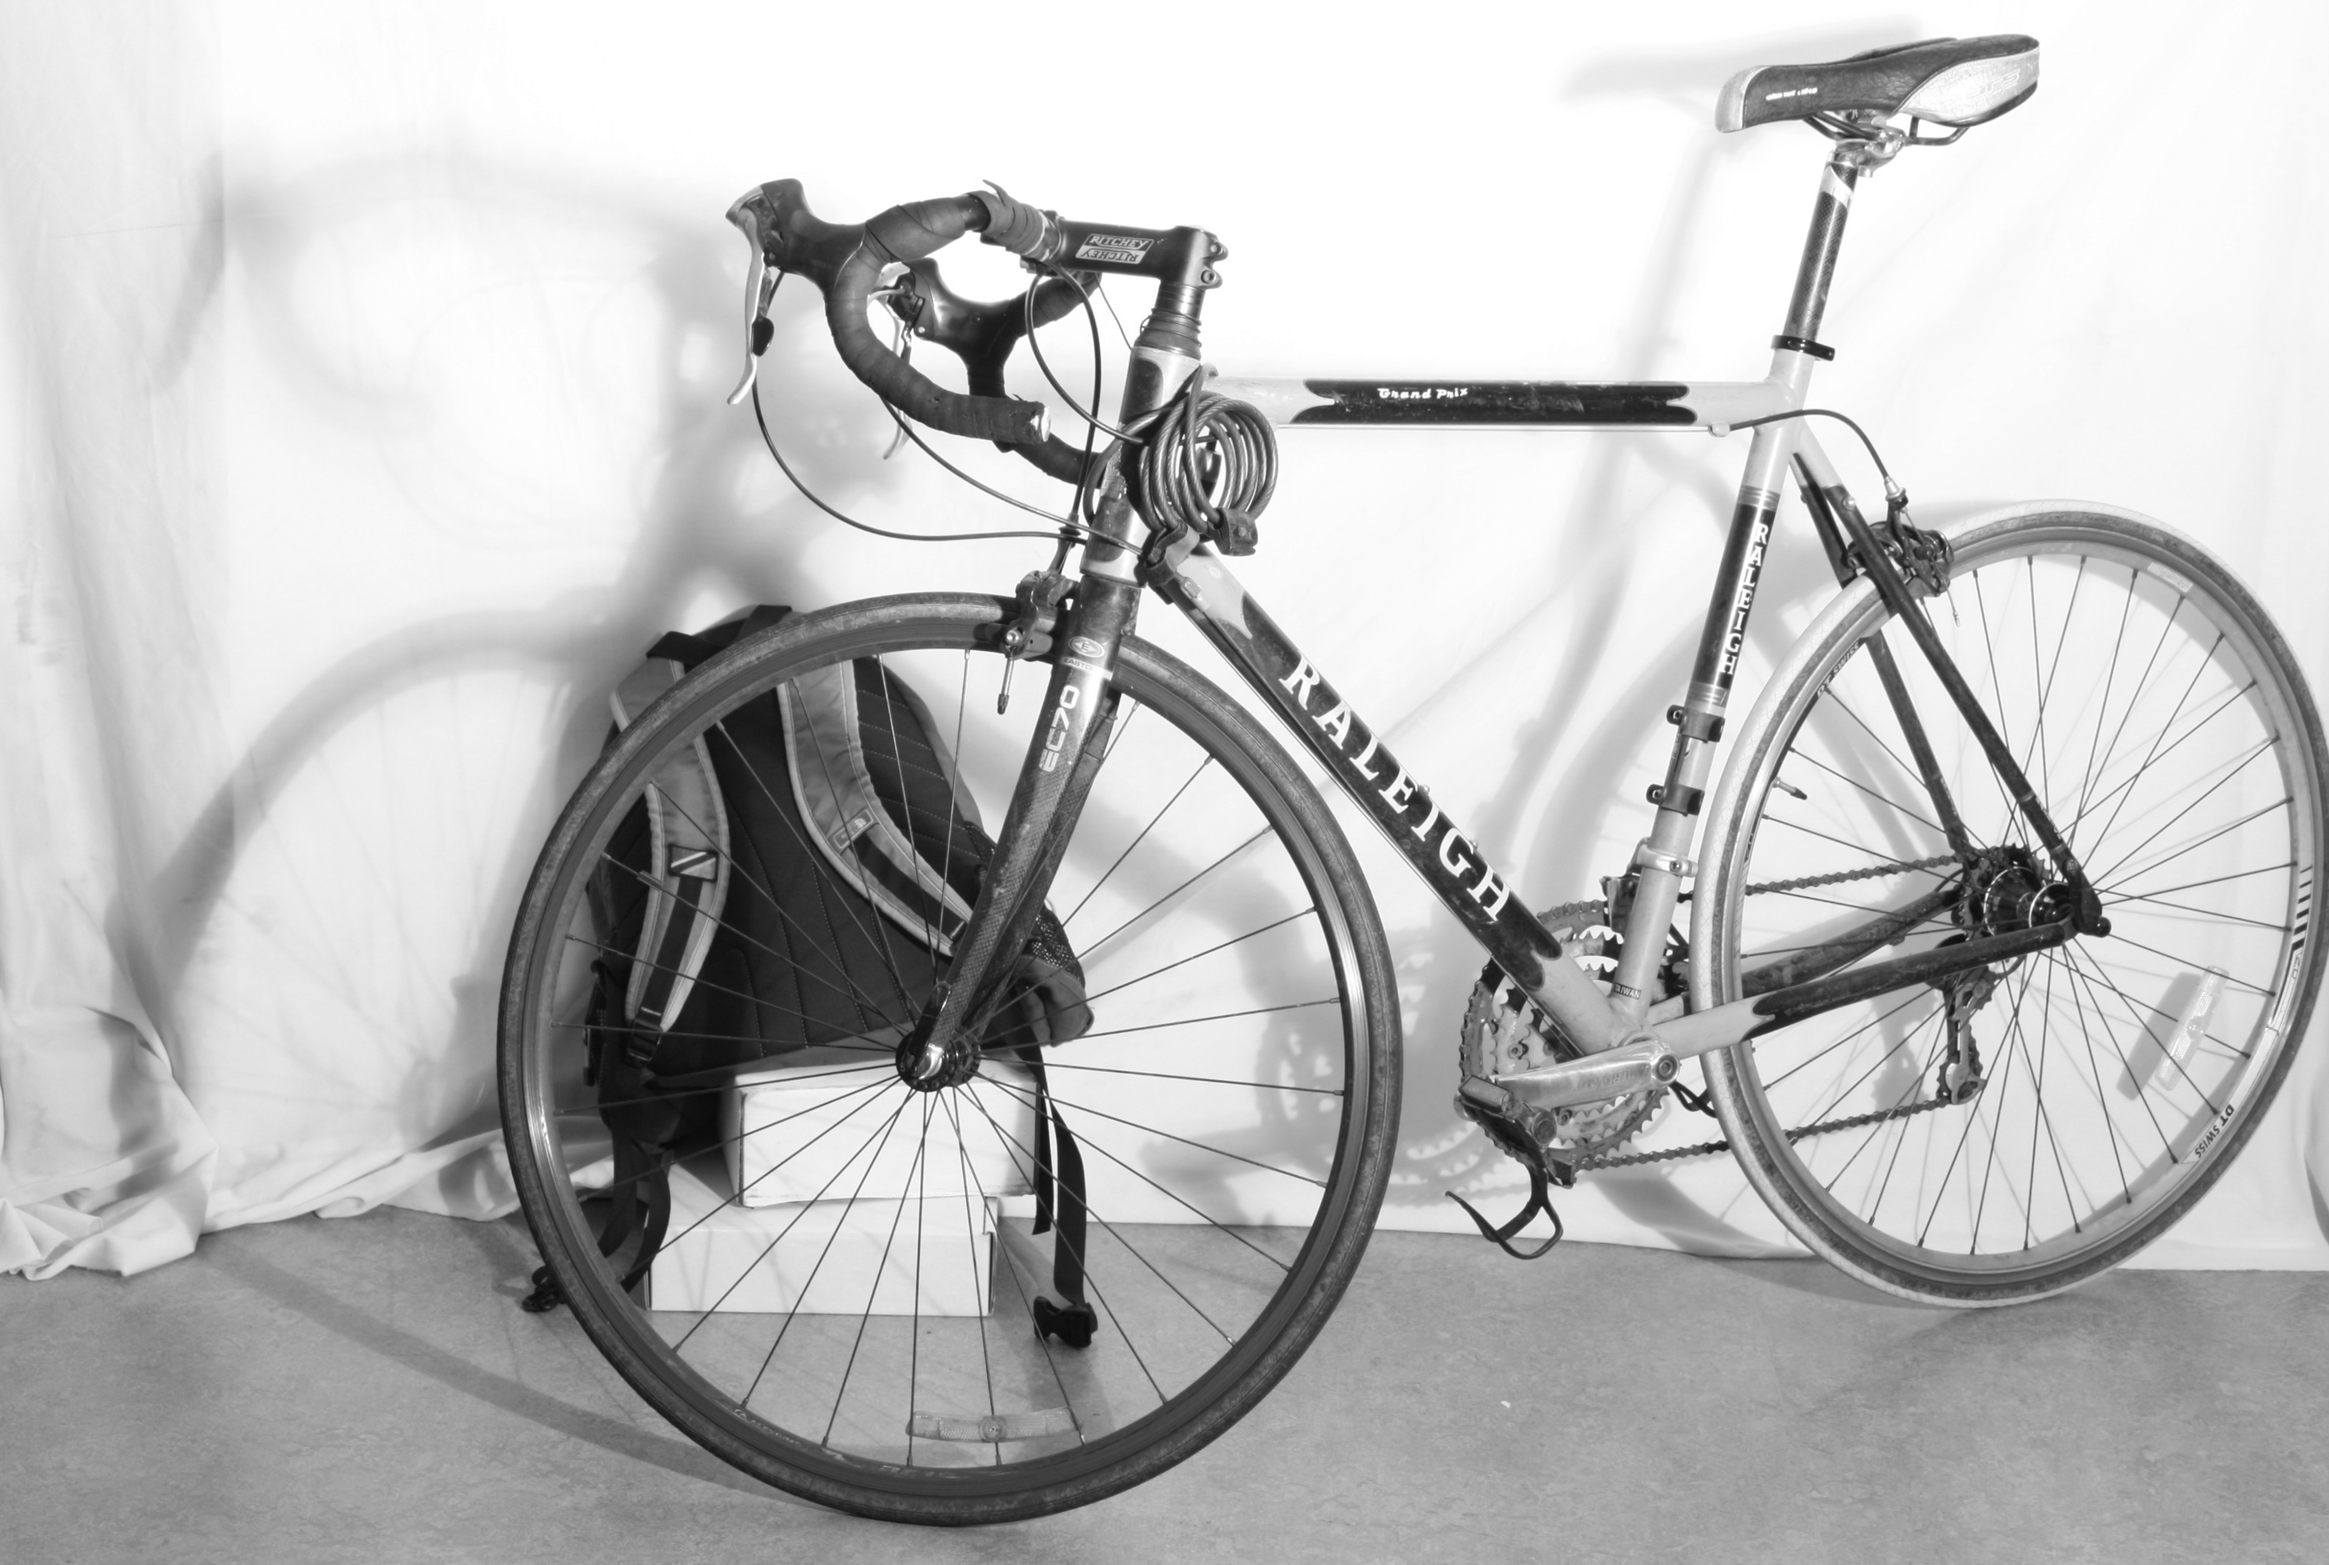
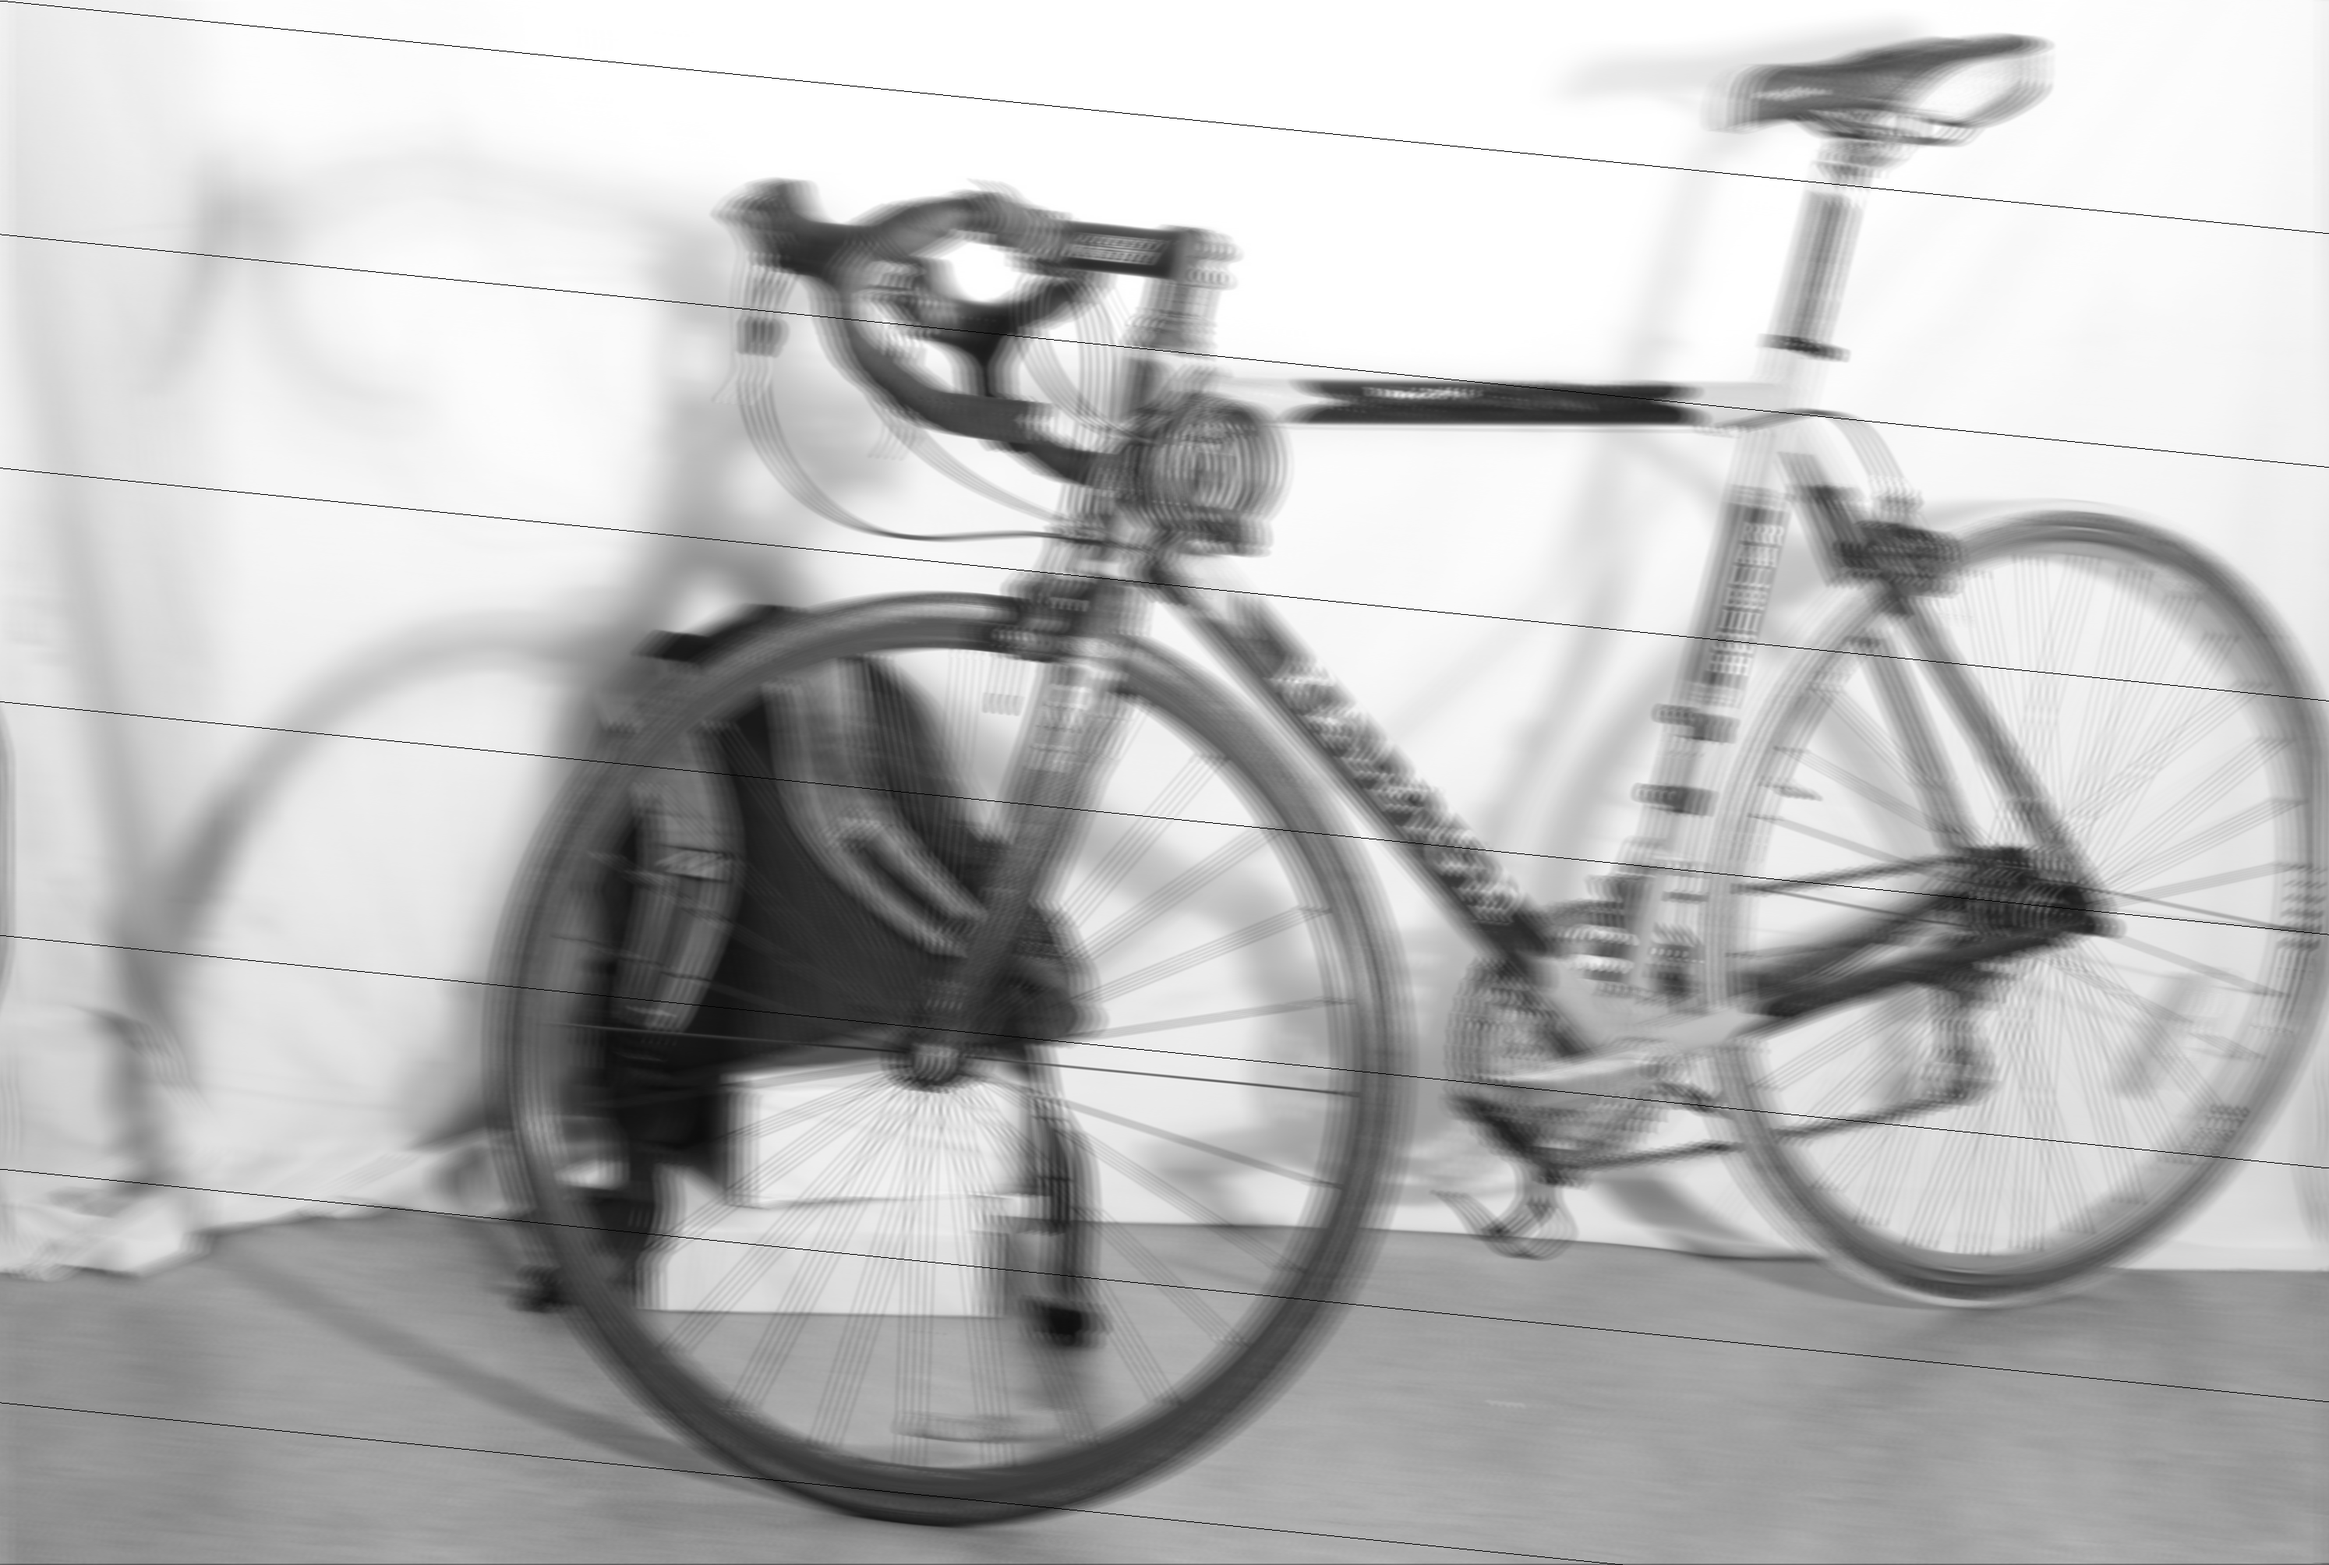
Blur almost working, has some lines though

diff --git a/As3/main.cpp b/As3/main.cpp
@@ -11,7 +11,10 @@
 #include "OpenCLFunctions.h"
 
 #define KERNEL_FINE_NAME "kernel.cl" // Kernel file name
-#define KERNEL_NAME "to_grayscale" // Kernel Function name
+#define GRAYSCALE_NAME "to_grayscale" // Kernel Function name
+#define MASK_NAME "apply_mask"
+#define WIDTH 2988
+#define HEIGHT 2008
 
 /* The code must do the following
 * 1. Load image "im0.png" with lodepng.cpp (DONE)
@@ -44,12 +47,8 @@ int main() {
 	unsigned h = 2008; // Image height
 	char* file_name = "im0.png"; // Name of the image file
 	std::vector<unsigned char> img; // This vector will have w * h * 4 elements representing R,G,B,A
-	std::vector<unsigned char> red(w * h);
-	std::vector<unsigned char> green(w * h);
-	std::vector<unsigned char> blue(w * h);
-	std::vector<unsigned char> alpha(w * h);
 	std::vector<unsigned char> grayscaled(w * h); // Includes the alpha channel so ==> width * height * 2 // ADD * 2 HERE
-	std::vector<unsigned char> result; // The result after the mask goes here
+	std::vector<unsigned char> result(w * h); // The result after the mask goes here
 
 	printf("Loading %s to memory\n", file_name);
 	// Start measurint elapsed time with WINAPI
@@ -70,23 +69,6 @@ int main() {
 	elapsed.QuadPart /= freq.QuadPart;
 	printf("%s loaded to memory. Took %ld microseconds\n\n", file_name, elapsed);
 
-	// Divide image into multiple arrays
-	int j = 0;
-	for (int i = 0; i < img.size(); i += 4) {
-		red[j] = img[i];
-		green[j] = img[i + 1];
-		blue[j] = img[i + 2];
-		alpha[j] = img[i + 3];
-	}
-
-	/* GRAYSCALE THE IMAGE
-	int c = -1, j = 0;
-	for (int i = 0; i < img.size(); i += 4) {
-		grayscaled[j] = (unsigned char)((float)img[i] * 0.299 + (float)img[i + 1] * 0.587 + (float)img[i + 2] * 0.114);
-		grayscaled[j + 1] = img[i + 3];
-		j += 2;
-	}
-	*/
 
 	/**********************************************/
 	/*				  OPENCL                      */
@@ -105,6 +87,8 @@ int main() {
 
 	cl_mem original_mem = NULL;
 	cl_mem grayscaled_mem = NULL;
+	cl_mem width_mem = NULL;
+	cl_mem height_mem = NULL;
 	cl_mem result_mem = NULL;
 
 	// Load Kernel source into memory
@@ -122,48 +106,33 @@ int main() {
 	// Print number of devices on the selected platform
 	printf("Number of devices on the selected platform: %d\n\n", num_of_devices);
 	if (!errorCheck(err_num)) return 1;
-	// Create the context
-	context = clCreateContext(NULL, 1, &device_id, NULL, NULL, &err_num);
-	if (!errorCheck(err_num)) return 1;
 	// Print info about the selected device
 	printDeviceInfo(device_id);
+	// Create the context
+	printf("Creating context\n");
+	context = clCreateContext(NULL, 1, &device_id, NULL, NULL, &err_num);
+	if (!errorCheck(err_num)) return 1;
 	// Create command queue with profiling enabled, so Kernel exewcution time can be obtained
+	printf("Creating command queue\n");
 	cmd_q = clCreateCommandQueue(context, device_id, CL_QUEUE_PROFILING_ENABLE, &err_num);
+	if (!errorCheck(err_num)) return 1;
+	// Create Kernel
+	kernel = createKernel(context, device_id, GRAYSCALE_NAME, (const char**)&src.source_str, (const size_t*)&src.source_size);
+	if (kernel == NULL) return 1;
+
+	/**********************************************/
+	/*				  GRAYSCALE                   */
+	/**********************************************/
 
 	// Create memory buffer for original and grayscaled image
 	original_mem = clCreateBuffer(context, CL_MEM_READ_ONLY | CL_MEM_USE_HOST_PTR, w * h * 3 * sizeof(unsigned char), &img[0], &err_num);
 	if (!errorCheck(err_num)) return 1;
 	grayscaled_mem = clCreateBuffer(context, CL_MEM_READ_WRITE, w * h * sizeof(unsigned char), NULL, &err_num);
 	if (!errorCheck(err_num)) return 1;
-
-	// Create the program with Kernel source
-	program = clCreateProgramWithSource(context, 1, (const char**)&src.source_str, (const size_t*)&src.source_size, &err_num);
-	if (!errorCheck(err_num)) return 1;
-	// Build the program
-	err_num = clBuildProgram(program, 1, &device_id, NULL, NULL, NULL);
-	//Print logs if build failed
-	if (err_num == CL_BUILD_PROGRAM_FAILURE) {
-		size_t log_size;
-		clGetProgramBuildInfo(program, device_id, CL_PROGRAM_BUILD_LOG, 0, NULL, &log_size);
-		// Allocate memory for the log
-		char* log = (char*)malloc(log_size);
-		// Get the log
-		clGetProgramBuildInfo(program, device_id, CL_PROGRAM_BUILD_LOG, log_size, log, NULL);
-		// Print the log
-		printf("%s\n", log);
-	}
-	// Create the actual Kernel
-	kernel = clCreateKernel(program, KERNEL_NAME, &err_num);
-	if (!errorCheck(err_num)) return 1;
 	// Give the original and grayscaled image as parameters to the kernel
 	err_num = clSetKernelArg(kernel, 0, sizeof(cl_mem), &original_mem);
 	err_num |= clSetKernelArg(kernel, 1, sizeof(cl_mem), &grayscaled_mem);
 	if (!errorCheck(err_num)) return 1;
-
-	/**********************************************/
-	/*				  GRAYSCALE                   */
-	/**********************************************/
-
 	// Set global and local work sizes
 	size_t global_work_size[1] = { w*h };
 	size_t local_work_size[1] = { 18 }; 
@@ -187,9 +156,38 @@ int main() {
 	/**********************************************/
 	/*				  5x5 MASK                    */
 	/**********************************************/
+	// https://stackoverflow.com/questions/44915272/how-opencl-work-with-opencv
+	// https://stackoverflow.com/questions/4880819/logic-for-padding-of-an-image-array
 
+	const unsigned int width = 2998;
+	const unsigned int height = 2008;
 
+	// Create Kernel
+	kernel = createKernel(context, device_id, MASK_NAME, (const char**)&src.source_str, (const size_t*)&src.source_size);
+	if (kernel == NULL) return 1;
+	grayscaled_mem = clCreateBuffer(context, CL_MEM_READ_WRITE | CL_MEM_USE_HOST_PTR, w * h * sizeof(unsigned char), &grayscaled[0], &err_num);
+	if (!errorCheck(err_num)) return 1;
+	result_mem = clCreateBuffer(context, CL_MEM_READ_WRITE, w * h * sizeof(unsigned char), NULL, &err_num);
+	if (!errorCheck(err_num)) return 1;
 
+	// Give the grayscaled image as parameters to the kernel
+	err_num = clSetKernelArg(kernel, 0, sizeof(cl_mem), &grayscaled_mem);
+	err_num |= clSetKernelArg(kernel, 1, sizeof(cl_mem), &result_mem);
+	err_num |= clSetKernelArg(kernel, 2, sizeof(cl_uint), &width);
+	err_num |= clSetKernelArg(kernel, 3, sizeof(cl_uint), &height);
+	if (!errorCheck(err_num)) return 1;
+
+	// Set global and local work sizes
+	size_t global_work_size2[] = { w, h }; // x, y
+	size_t local_work_size2[] = { 4, 4 };
+
+	// Notice that workdim = 2!!!
+	err_num = clEnqueueNDRangeKernel(cmd_q, kernel, 2, NULL, global_work_size2, local_work_size2, 0, NULL, &event);
+	if (!errorCheck(err_num)) return 1;
+	err_num = clEnqueueReadBuffer(cmd_q, result_mem, CL_TRUE, 0, w * h * sizeof(unsigned char), &result[0], 0, NULL, NULL);
+	if (!errorCheck(err_num)) return 1;
+
+	printf("\n");
 
 	/**********************************************/
 	/*				  SAVE IMAGE                  */
@@ -200,7 +198,7 @@ int main() {
 	QueryPerformanceFrequency(&freq);
 	QueryPerformanceCounter(&start);
 	// Encode as PNG, and save to "result.png"
-	lodepng::encode("result.png", grayscaled, w, h, LCT_GREY);
+	lodepng::encode("result.png", result, w, h, LCT_GREY); // grayscaled
 	// Stop timer
 	QueryPerformanceCounter(&end);
 	elapsed.QuadPart = end.QuadPart - start.QuadPart;
